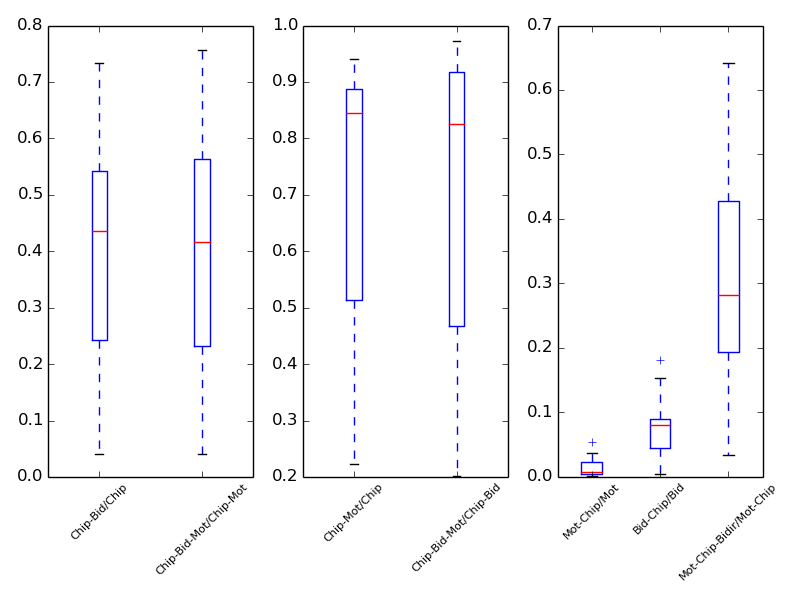
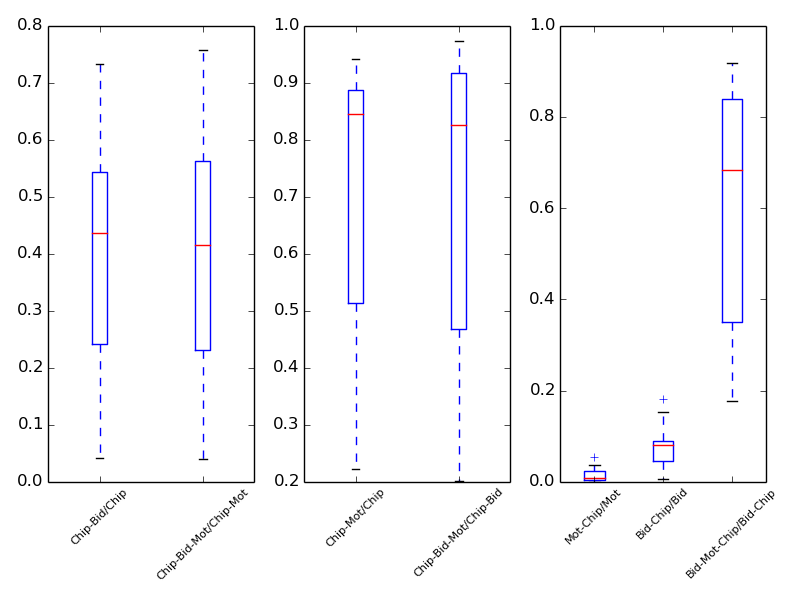
updates

diff --git a/src/VennGeneratorv2.py b/src/VennGeneratorv2.py
@@ -141,7 +141,7 @@ if __name__ == "__main__":
                         list2[1].append(chipbidirfimo/chipbidir)
                         list3[0].append(fimochip/fimotot)
                         list3[1].append(bidirchip/bidirtot)
-                        list3[2].append(bidirfimochip/bidirchip)
+                        list3[2].append(bidirfimochip/bidirfimo)
                         
     print list1
     F = plt.figure()
@@ -153,7 +153,7 @@ if __name__ == "__main__":
     ax2.boxplot(list2)
     ax2.set_xticklabels(['Chip-Mot/Chip', 'Chip-Bid-Mot/Chip-Bid'],rotation = 45, fontsize=8)
     ax3.boxplot(list3)
-    ax3.set_xticklabels(['Mot-Chip/Mot','Bid-Chip/Bid','Bid-Mot-Chip/Bid-Chip'],rotation = 45, fontsize=8)
+    ax3.set_xticklabels(['Mot-Chip/Mot','Bid-Chip/Bid','Bid-Mot-Chip/Bid-Mot'],rotation = 45, fontsize=8)
     #ax = plt.axes()
     #plt.boxplot(list1)
     #title = bidirfile.split('/')[-1]
